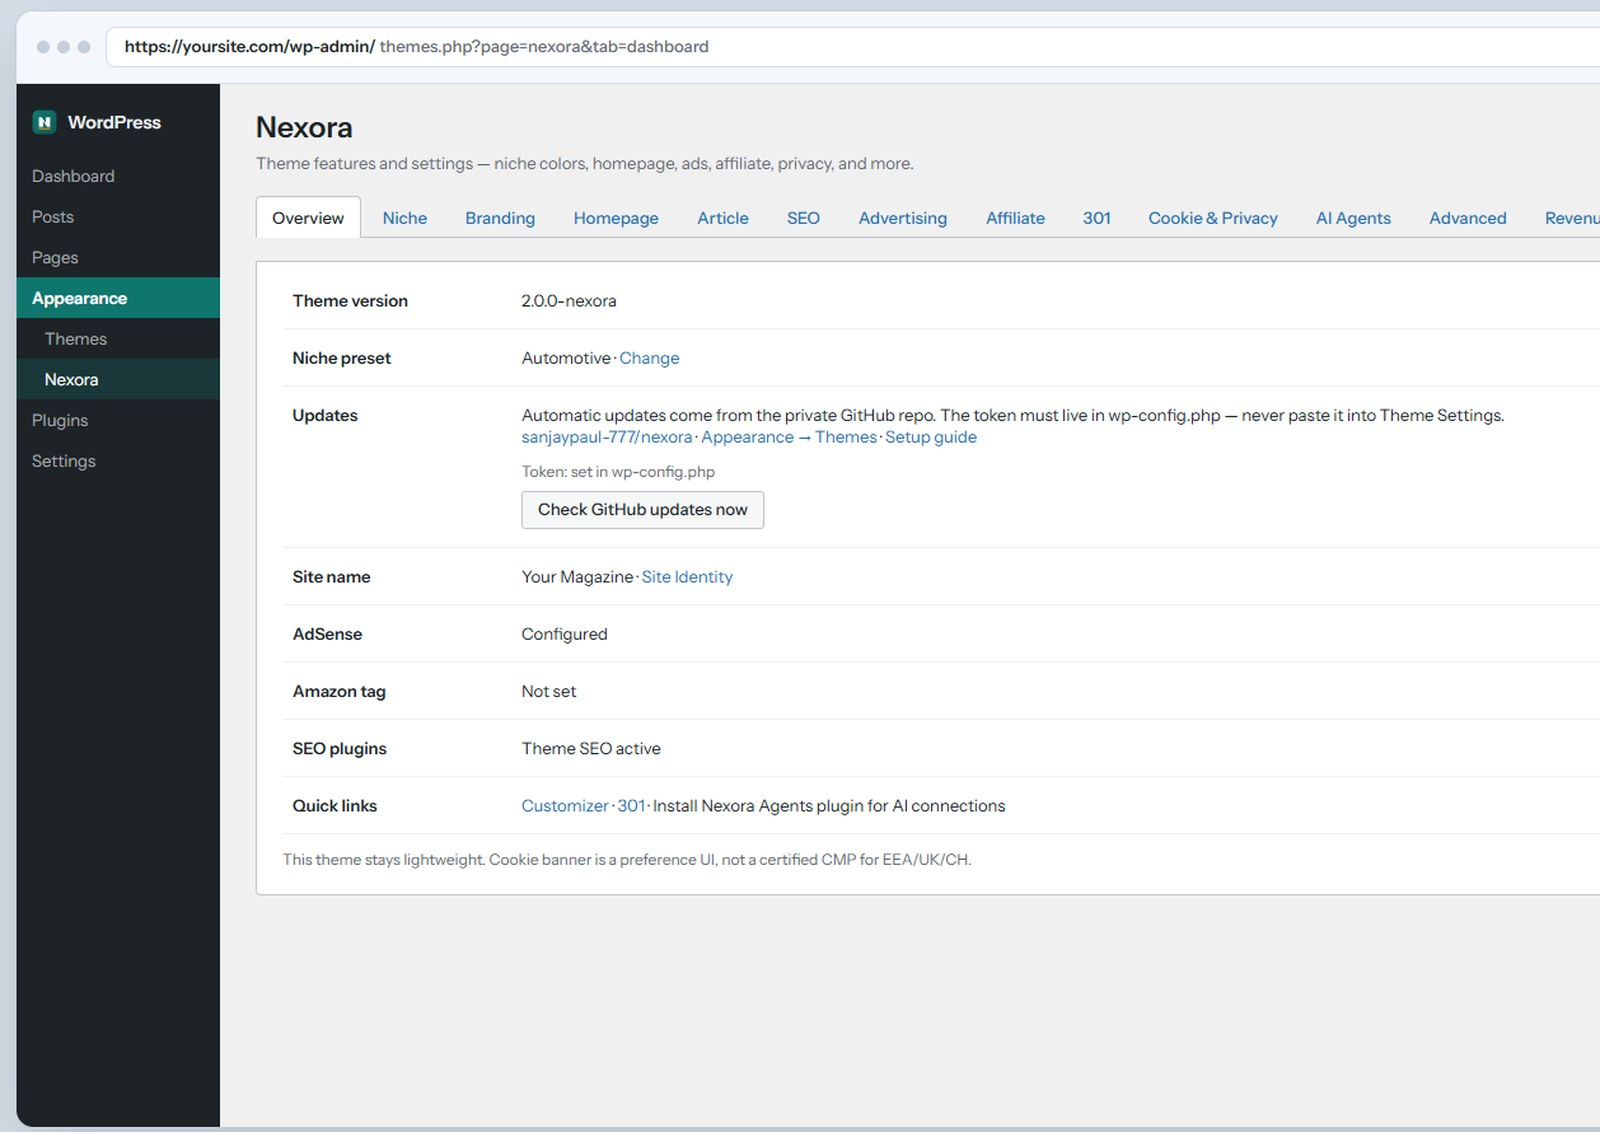
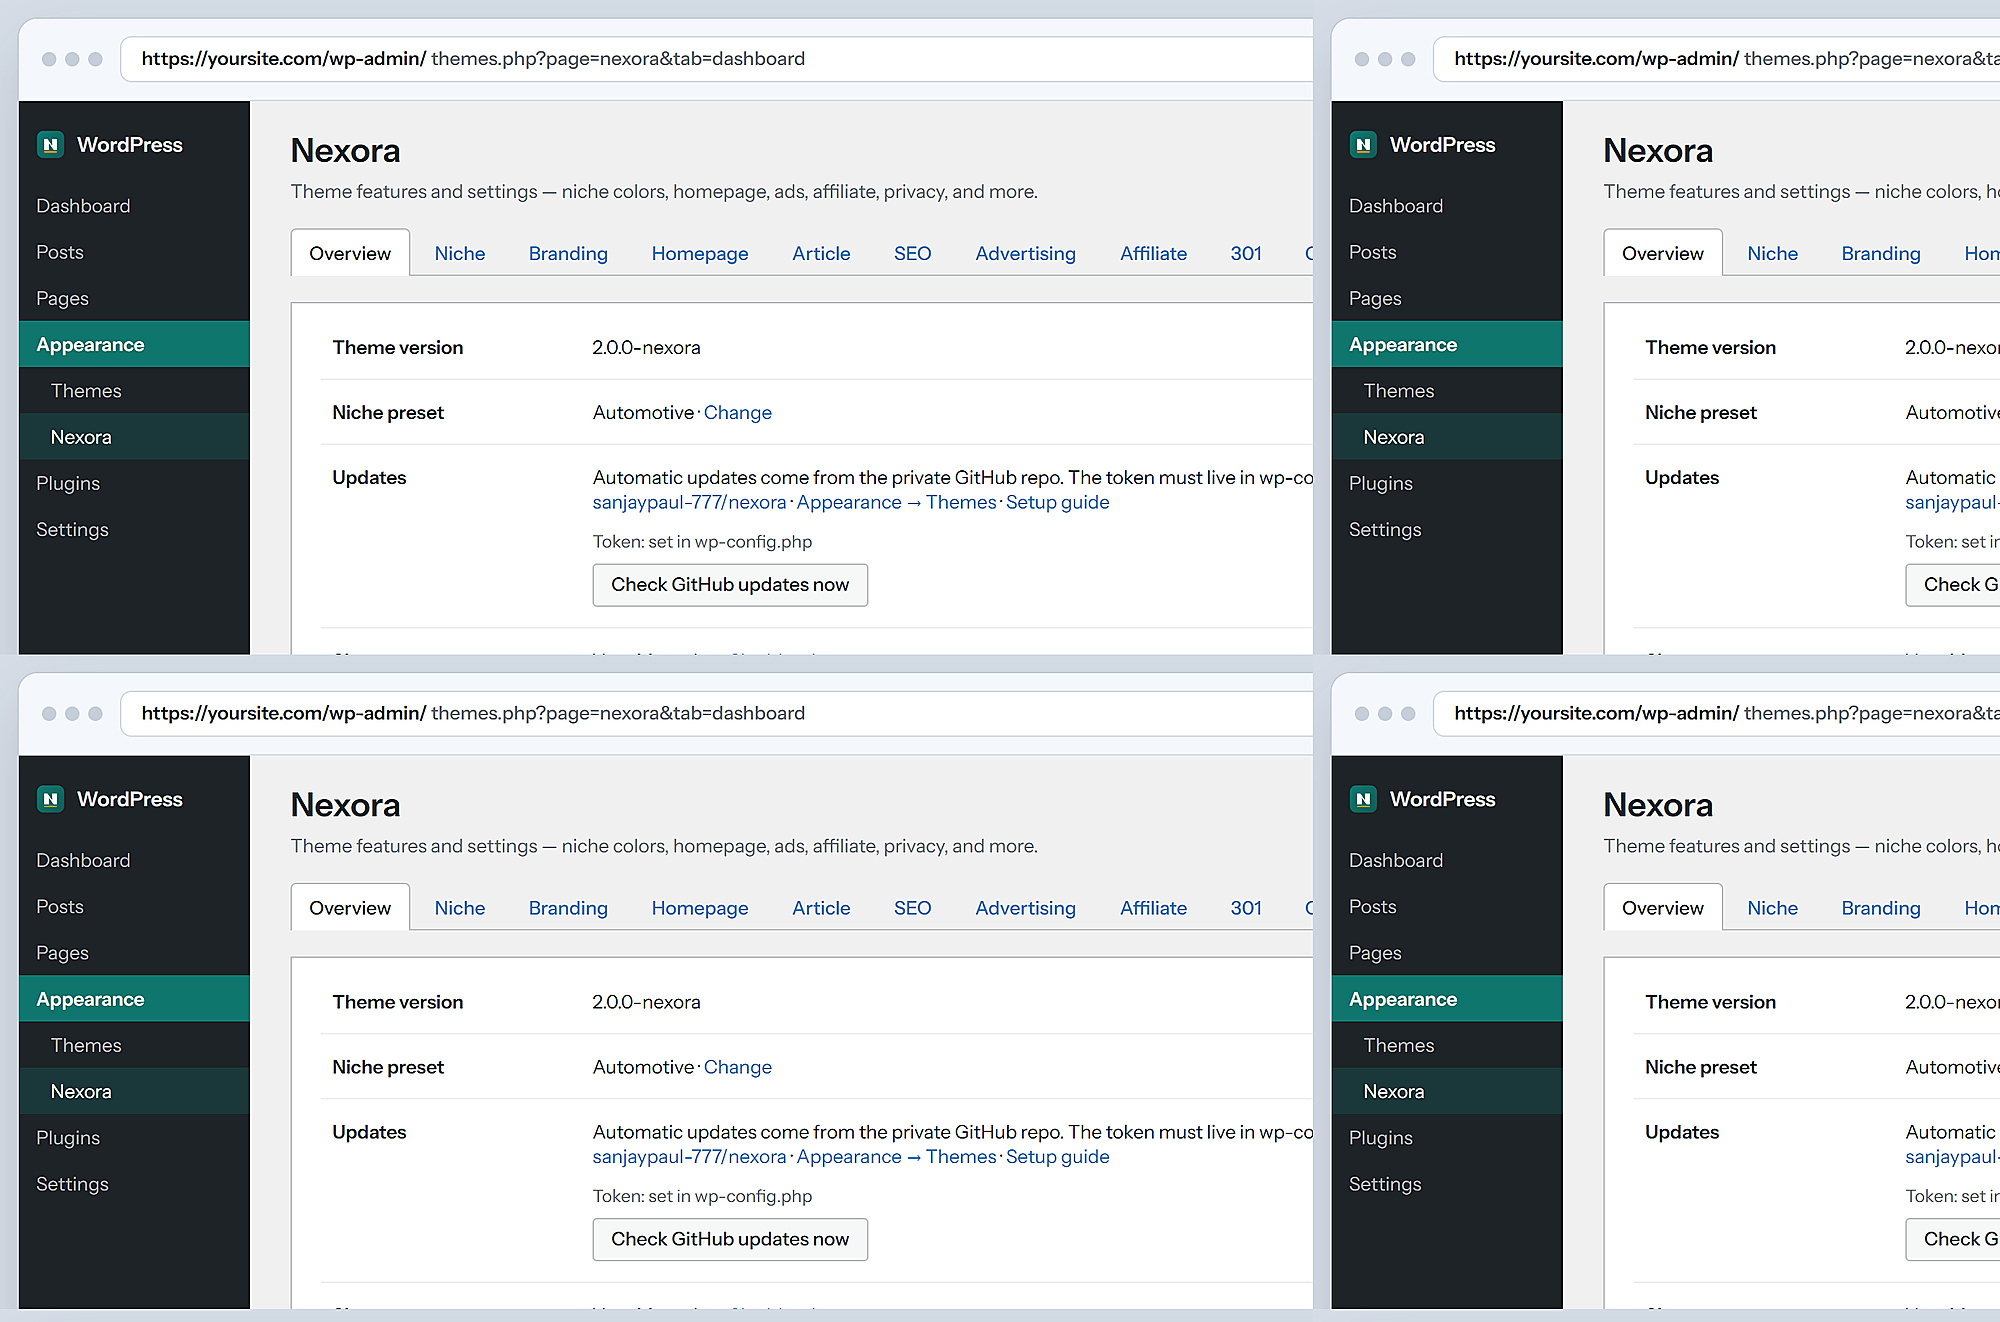
Replace Why section product shots with sharper 2x captures.

diff --git a/index.html b/index.html
@@ -278,7 +278,7 @@
                 <span class="device__url">Single post</span>
               </div>
               <figure class="device__screen">
-                <img src="assets/article-layout.jpg" width="1600" height="900" alt="Nexora single post — TOC rail, reading column, right ad rail" loading="lazy">
+                <img src="assets/article-layout.jpg?v=hq1" width="2000" height="1931" alt="Nexora single post — TOC rail, reading column, right ad rail" loading="lazy">
               </figure>
             </div>
           </div>
@@ -302,7 +302,7 @@
                 <span class="device__url">Appearance → Nexora</span>
               </div>
               <figure class="device__screen">
-                <img src="assets/admin-dashboard.jpg?v=7bee1c6" width="1600" height="1132" alt="Appearance → Nexora Overview — theme version, niche, updates, ads, SEO" loading="lazy">
+                <img src="assets/admin-dashboard.jpg?v=hq1" width="2000" height="1322" alt="Appearance → Nexora Overview — theme version, niche, updates, ads, SEO" loading="lazy">
               </figure>
             </div>
           </div>
